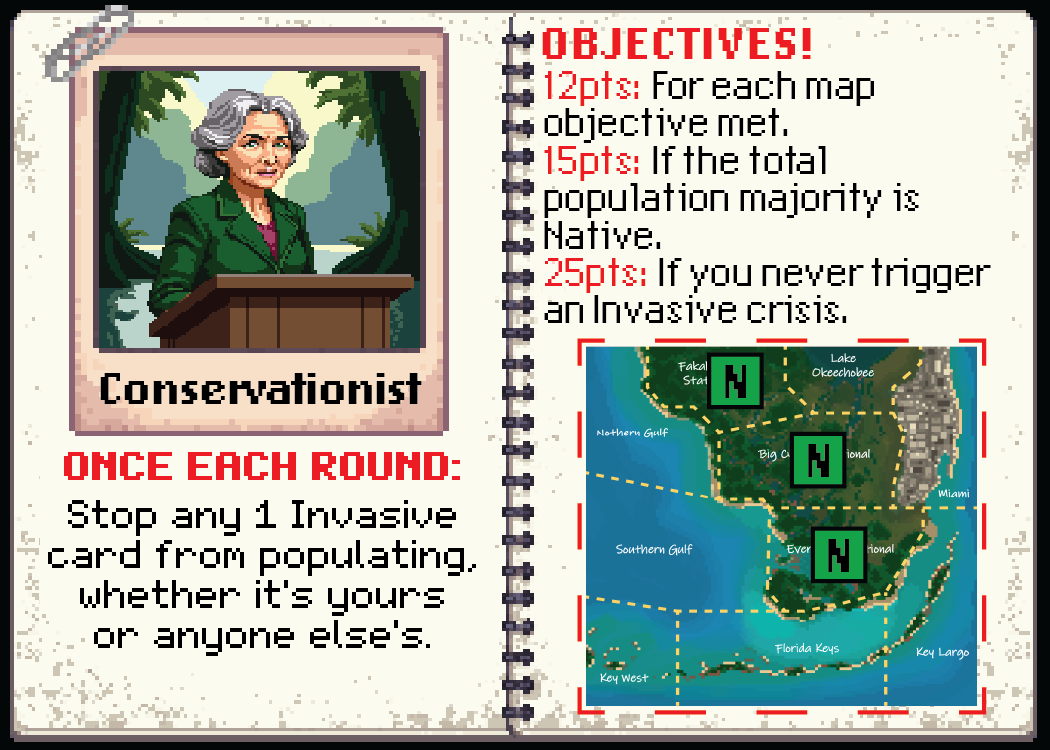
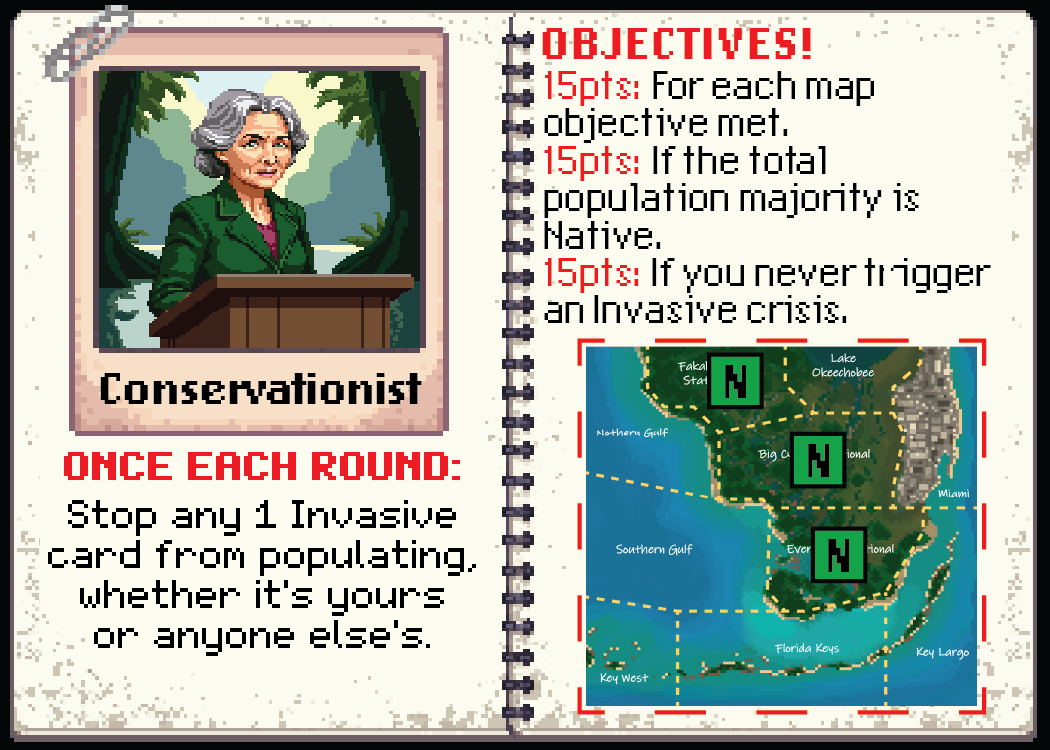
Add a title screen; Conservationist objectives now 15/15/15
Title screen: each visit that starts on the home page opens on just the
EVERGLADES title and tagline over the animated backdrop, with a slowly
pulsing Click to begin. A click (or Enter/Space) glides the title to
its place on the home page and fades the menu in around it. Skipped
when rejoining a table; reduced motion gets a simple fade.

Conservationist: 15 pts per map objective (was 12) and 15 pts for
never triggering an Invasive Crisis (was 25). Role card updated using
the card's own 15pts lettering; CARD_V bumped so browsers refetch it.

Changed region(s): [[0.5181, 0.3373, 0.8533, 0.3987], [0.5181, 0.092, 0.5486, 0.1227]]

diff --git a/public/style.css b/public/style.css
@@ -102,6 +102,25 @@ html.scene-only:not(.scenery-live) body { background: #2a1830 url('assets/landin
 }
 .landing > * { position: relative; }
 .landing > .musicbtn { position: fixed; top: 12px; right: 12px; z-index: 5; display: flex; gap: 6px; }
+/* ---------- title screen (client.js intro) ---------- */
+/* just the title on the backdrop, then the menu fades in once it has glided into place */
+.titlescreen { position: fixed; inset: 0; z-index: 90; display: flex; flex-direction: column; align-items: center; justify-content: center; gap: 28px;
+  padding: 16px; cursor: pointer; outline: none; text-align: center;
+  background: radial-gradient(ellipse 60% 45% at 50% 50%, rgba(25, 12, 30, .45), rgba(25, 12, 30, 0) 100%); }
+.intro-title { display: flex; flex-direction: column; align-items: center; gap: 12px; }
+.titlescreen .logo, .titlescreen .tagline { width: max-content; max-width: calc(100vw - 32px); will-change: transform; }
+.intro-begin { margin: 0; font-family: var(--font-small); font-size: clamp(18px, 2.2vw, 26px); letter-spacing: 2px; text-transform: uppercase;
+  color: #fff3c4; text-shadow: 2px 2px 0 var(--ink), -2px 0 0 var(--ink), 0 -2px 0 var(--ink), 2px 0 0 var(--ink), 0 2px 0 var(--ink);
+  animation: introPulse 2.6s ease-in-out infinite; }
+@keyframes introPulse { 0%, 100% { opacity: 1; } 50% { opacity: .2; } }
+.titlescreen.going { background: none; transition: background .8s; }
+.titlescreen.going .intro-begin { animation: none; opacity: 0; transition: opacity .35s; }
+.titlescreen.fadeout { opacity: 0; transition: opacity .6s; }
+html.intro-on #app { opacity: 0; pointer-events: none; }
+html.intro-on #sceneEye { display: none; }
+html.intro-reveal #app { transition: opacity 1.2s ease; }
+html.intro-hold .hero .logo, html.intro-hold .hero .tagline { visibility: hidden; }
+@media (prefers-reduced-motion: reduce) { .intro-begin { animation: none; } }
 /* ---------- friends dropdown (client.js renderFriends) ---------- */
 .friendsbtn .fon { display: inline-block; min-width: 16px; padding: 0 3px; background: #2a9a4a; color: #fff; border: 2px solid var(--ink); font-size: 12px; line-height: 14px; text-align: center; }
 .friendsbtn .fbadge .badge { margin: 0 0 0 3px; }
@@ -171,8 +190,8 @@ html.scene-only:not(.scenery-live) body { background: #2a1830 url('assets/landin
   .landing-inner .landing-card { margin-top: calc(clamp(52px, 8.5vw, 104px) * .9 + 28px); }
 }
 .hero { display: flex; flex-direction: column; gap: 12px; min-width: 0; }
-.hero .logo { font-size: clamp(52px, 8.5vw, 104px); color: #4fc46e; text-shadow: 5px 5px 0 var(--ink), 0 0 24px rgba(0, 0, 0, .45); }
-.hero .tagline { margin: -4px 0 0; color: #fff3c4; font-size: clamp(20px, 2.4vw, 28px); text-shadow: 2px 2px 0 var(--ink); }
+.hero .logo, .titlescreen .logo { font-size: clamp(52px, 8.5vw, 104px); color: #4fc46e; text-shadow: 5px 5px 0 var(--ink), 0 0 24px rgba(0, 0, 0, .45); }
+.hero .tagline, .titlescreen .tagline { margin: -4px 0 0; color: #fff3c4; font-size: clamp(20px, 2.4vw, 28px); text-shadow: 2px 2px 0 var(--ink); }
 .blurb { padding: 12px 16px 12px 36px; }
 .blurb p { margin: 0 0 8px; font-size: 17px; line-height: 1.35; }
 .blurb .crisisword { color: var(--red); }

diff --git a/tools/update_conservationist_card.js b/tools/update_conservationist_card.js
@@ -1,9 +1,11 @@
 // Updates the Conservationist role card for the new rules (Nov 2026):
-//  * right page: "20pts" -> "12pts" per map objective, rebuilt from the card's own digit glyphs ("1" from "15pts",
-//    "2" from "20pts") so it matches the original lettering exactly; the rest of the line slides left to close the gap.
+//  * right page: "20pts" (each map objective) and "25pts" (never trigger a crisis) both become "15pts", copied from the
+//    card's own "15pts:" label (the majority objective) so they match the original lettering exactly; the rest of
+//    each line slides left to close the gap.
 //  * left page: the old ability ("START OF TURN: You may choose not to populate...") is replaced with the new one,
 //    drawn in the hand-made pixel font from pixelfont.py (the same lettering as the Anaconda boss card).
-// Works on the card as it was before this change, so it can't be run twice on its own output.
+// Works on the original card (before Nov 2026; in git: git show 4c5c765:public/assets/cards/roles/Conservationist.png),
+// so it can't be run twice on its own output.
 // Usage: node tools/update_conservationist_card.js <original Conservationist.png> <out.png>
 // After replacing a role card, bump CARD_V in public/data.js so browsers fetch the new image.
 'use strict';
@@ -57,18 +59,17 @@ const isRed = (x, y) => { const i = at(x, y); return D[i] > 200 && D[i + 1] < 90
 const redIn = (x0, x1) => { for (let y = 71; y <= 105; y++) for (let x = x0; x <= x1; x++) if (isRed(x, y)) return true; return false; };
 if (!redIn(545, 561) || redIn(562, 565)) throw new Error('this does not look like the original Conservationist card (already updated?)');
 
-// ---------- right page: 20pts -> 12pts ----------
-// Glyph boxes measured on the original: line 1 ("20pts: For each map") is rows 66-106, cap rows 71-105;
-// "2" spans x 545-561 and "pts: ..." starts at x 588. In line 2 ("15pts"), "1" spans x 545-550 at rows 146-180
-// and the next digit starts 14px later (x 559), with 6px before "pts".
-const L1 = [66, 106], DY = 146 - 71;
-const two = grab(545, L1[0], 561, L1[1]);
-const rest = grab(586, L1[0], 890, L1[1]);
-const one = grab(545, L1[0] + DY, 552, L1[1] + DY);
-fill(545, L1[0], 890, L1[1], PAPER);
-paste(one, 545, L1[0]);
-paste(two, 559, L1[0]);
-paste(rest, 586 - 7, L1[0]); // "pts" now starts at x 581, 6px after the "2" (as in "15pts")
+// ---------- right page: 20pts and 25pts -> 15pts ----------
+// Measured on the original: the red labels sit on cap rows 71-105 ("20pts:"), 146-180 ("15pts:") and 258-292
+// ("25pts:"). "20pts:" and "25pts:" end at x 644 with their text starting at x 645; "15pts:" ends at x 637 with its
+// text at x 638, so swapping in the "15pts:" label moves the rest of the line 7px left.
+const label15 = grab(545, 146, 637, 180);
+for (const [cap, band] of [[71, [66, 106]], [258, [250, 293]]]) { // [label cap row, the line's clear band]
+  const rest = grab(645, band[0], 890, band[1]);
+  fill(545, band[0], 890, band[1], PAPER);
+  paste(label15, 545, cap);
+  paste(rest, 638, band[0]);
+}
 
 // ---------- left page: the new ability ----------
 fill(40, 442, 494, 606, PAPER);

diff --git a/public/client.js b/public/client.js
@@ -125,6 +125,48 @@ function updateMusic() {
     else if (k !== want && tr.playing) tr.stop();
   }
 }
+// ---------- the title screen ----------
+// Every visit that starts on the home page opens on just the title over the animated backdrop, with a slowly
+// pulsing "Click to begin". A click (or key) glides the title to where it sits on the home page, then the menu
+// fades in around it. The home page is already rendered underneath (hidden), so the title lands exactly on it.
+(function intro() {
+  if (sess) return; // rejoining a table: straight back in
+  const root = document.documentElement;
+  root.classList.add('intro-on', 'intro-hold');
+  const el = document.createElement('div');
+  el.id = 'titlescreen'; el.className = 'titlescreen'; el.setAttribute('role', 'button'); el.tabIndex = 0;
+  el.setAttribute('aria-label', 'Everglades: click to begin');
+  el.innerHTML = `<div class="intro-title"><h1 class="logo">EVERGLADES</h1><p class="tagline">A trick-taking card game for the River of Grass</p></div>
+    <p class="intro-begin">${matchMedia('(hover: none)').matches ? 'Tap' : 'Click'} to begin</p>`;
+  document.body.appendChild(el);
+  el.focus({ preventScroll: true });
+  let started = false;
+  const textBox = node => { const r = document.createRange(); r.selectNodeContents(node); return r.getBoundingClientRect(); };
+  function begin(e) {
+    if (started) return; started = true;
+    if (e) { e.preventDefault(); e.stopPropagation(); }
+    el.classList.add('going');
+    const still = matchMedia('(prefers-reduced-motion: reduce)').matches;
+    const MOVE = still ? 0 : 1500;
+    // where the home page's own title and tagline are
+    const pairs = [['.logo', '.hero .logo'], ['.tagline', '.hero .tagline']].map(([a, b]) => [el.querySelector(a), $app.querySelector(b)]);
+    for (const [from, to] of pairs) {
+      if (!from || !to || still) continue;
+      const f = textBox(from), t = textBox(to);
+      from.animate([{ transform: 'translate(0, 0)' }, { transform: `translate(${t.left - f.left}px, ${t.top - f.top}px)` }],
+        { duration: MOVE, easing: 'cubic-bezier(.5, 0, .25, 1)', fill: 'forwards' });
+    }
+    setTimeout(() => { root.classList.add('intro-reveal'); root.classList.remove('intro-on'); }, still ? 0 : MOVE * 0.55); // the menu fades in
+    setTimeout(() => { // the title has landed: hand over to the real one
+      root.classList.remove('intro-hold');
+      if (still) { el.classList.add('fadeout'); setTimeout(() => el.remove(), 600); } else el.remove();
+    }, MOVE);
+    setTimeout(() => root.classList.remove('intro-reveal'), MOVE + 1400);
+  }
+  el.addEventListener('click', begin);
+  el.addEventListener('keydown', e => { if (e.key === 'Enter' || e.key === ' ' || e.key === 'Escape') begin(e); });
+})();
+
 // The eye button: hide everything so the animated backdrop can be watched on its own (Escape or the eye brings it back).
 function setSceneOnly(on) {
   const root = document.documentElement, eye = document.getElementById('sceneEye');

diff --git a/public/data.js b/public/data.js
@@ -133,9 +133,9 @@
   const ROLES = {
     Conservationist: {
       name: 'Conservationist', img: 'assets/cards/roles/Conservationist.png', ending: 'assets/cards/roles/ConservationistEND.png',
-      map: { FSP: 'N', BCNP: 'N', ENP: 'N' }, mapPts: 12, majorityPts: 15, noCrisisPts: 25,
+      map: { FSP: 'N', BCNP: 'N', ENP: 'N' }, mapPts: 15, majorityPts: 15, noCrisisPts: 15,
       ability: 'Once each round, you may stop any 1 Invasive card (yours or anyone else’s) from populating.',
-      goals: ['12 pts for each map objective met', '15 pts if the total population majority is Native', '25 pts if you never trigger an Invasive Crisis'],
+      goals: ['15 pts for each map objective met', '15 pts if the total population majority is Native', '15 pts if you never trigger an Invasive Crisis'],
     },
     Fisherman: {
       name: 'Fisherman', img: 'assets/cards/roles/Fisherman.png', ending: 'assets/cards/roles/FishermanENDING.png',
@@ -171,7 +171,7 @@
 
   // Role card art changes now and then (new objective numbers): bump CARD_V whenever a role card image is replaced,
   // so every browser fetches the new card at once instead of showing one it saved earlier.
-  const CARD_V = '20261117';
+  const CARD_V = '20261118';
   for (const r of Object.values(ROLES)) r.img += '?v=' + CARD_V;
 
   // Balance experiments only (test runs): EG_ROLE_TUNE='{"Tourist":{"allMetPts":20}}' overrides role numbers.
